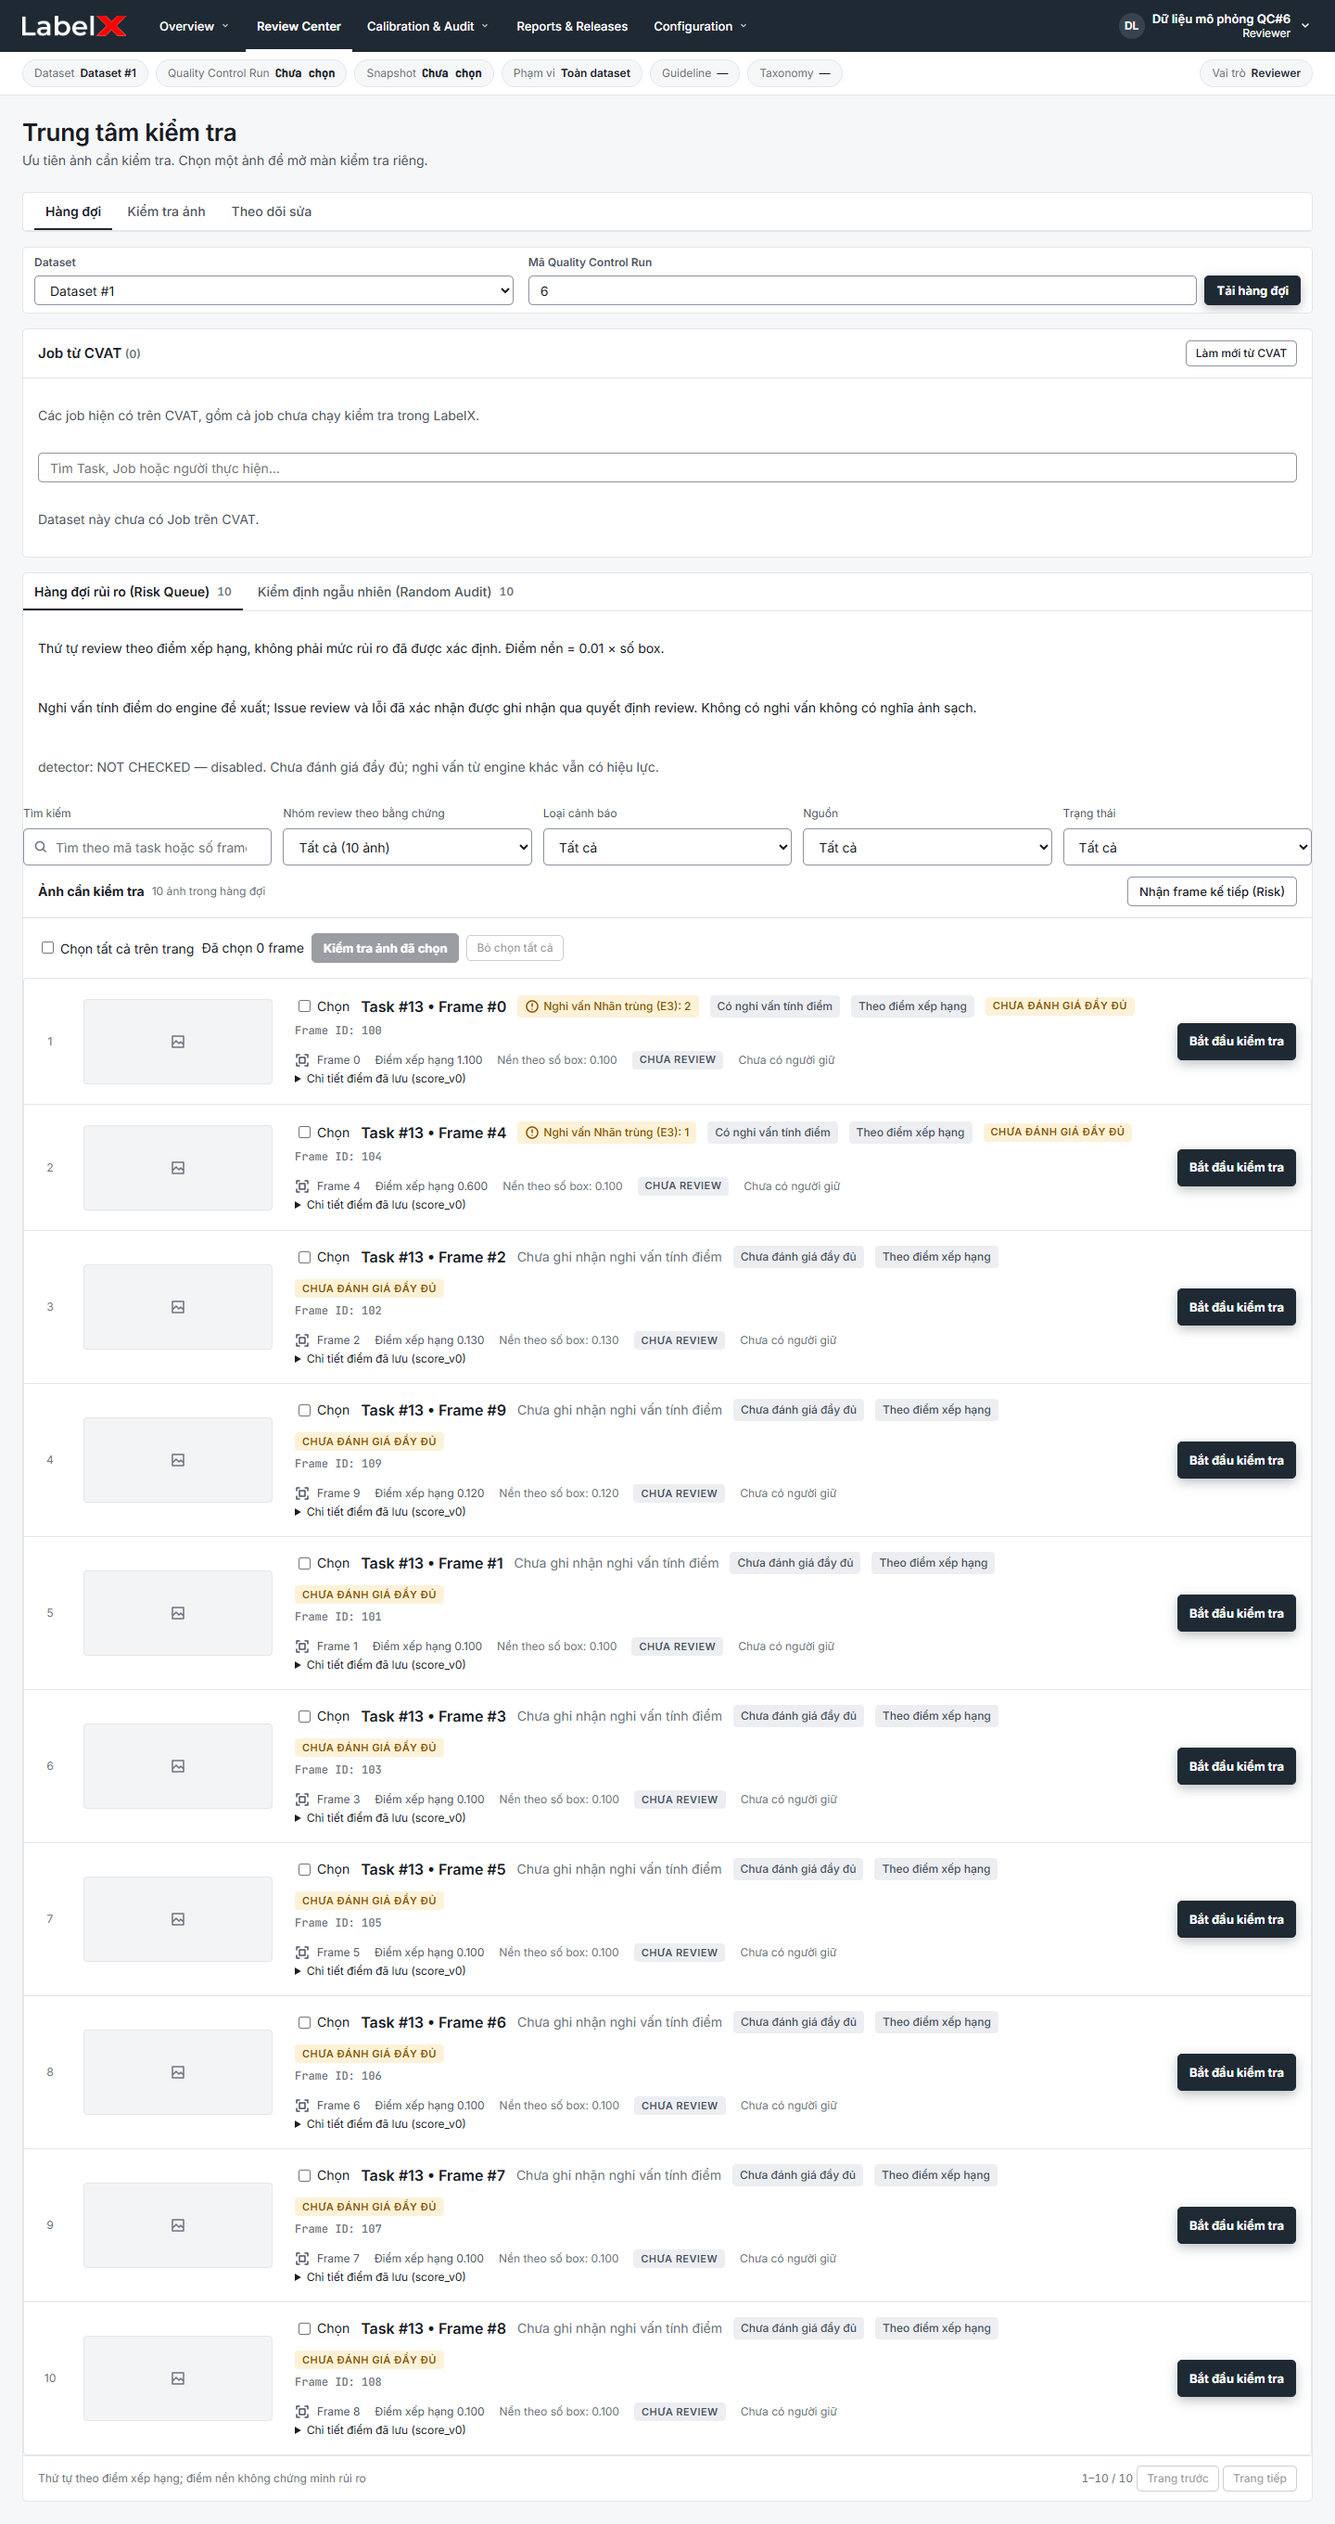
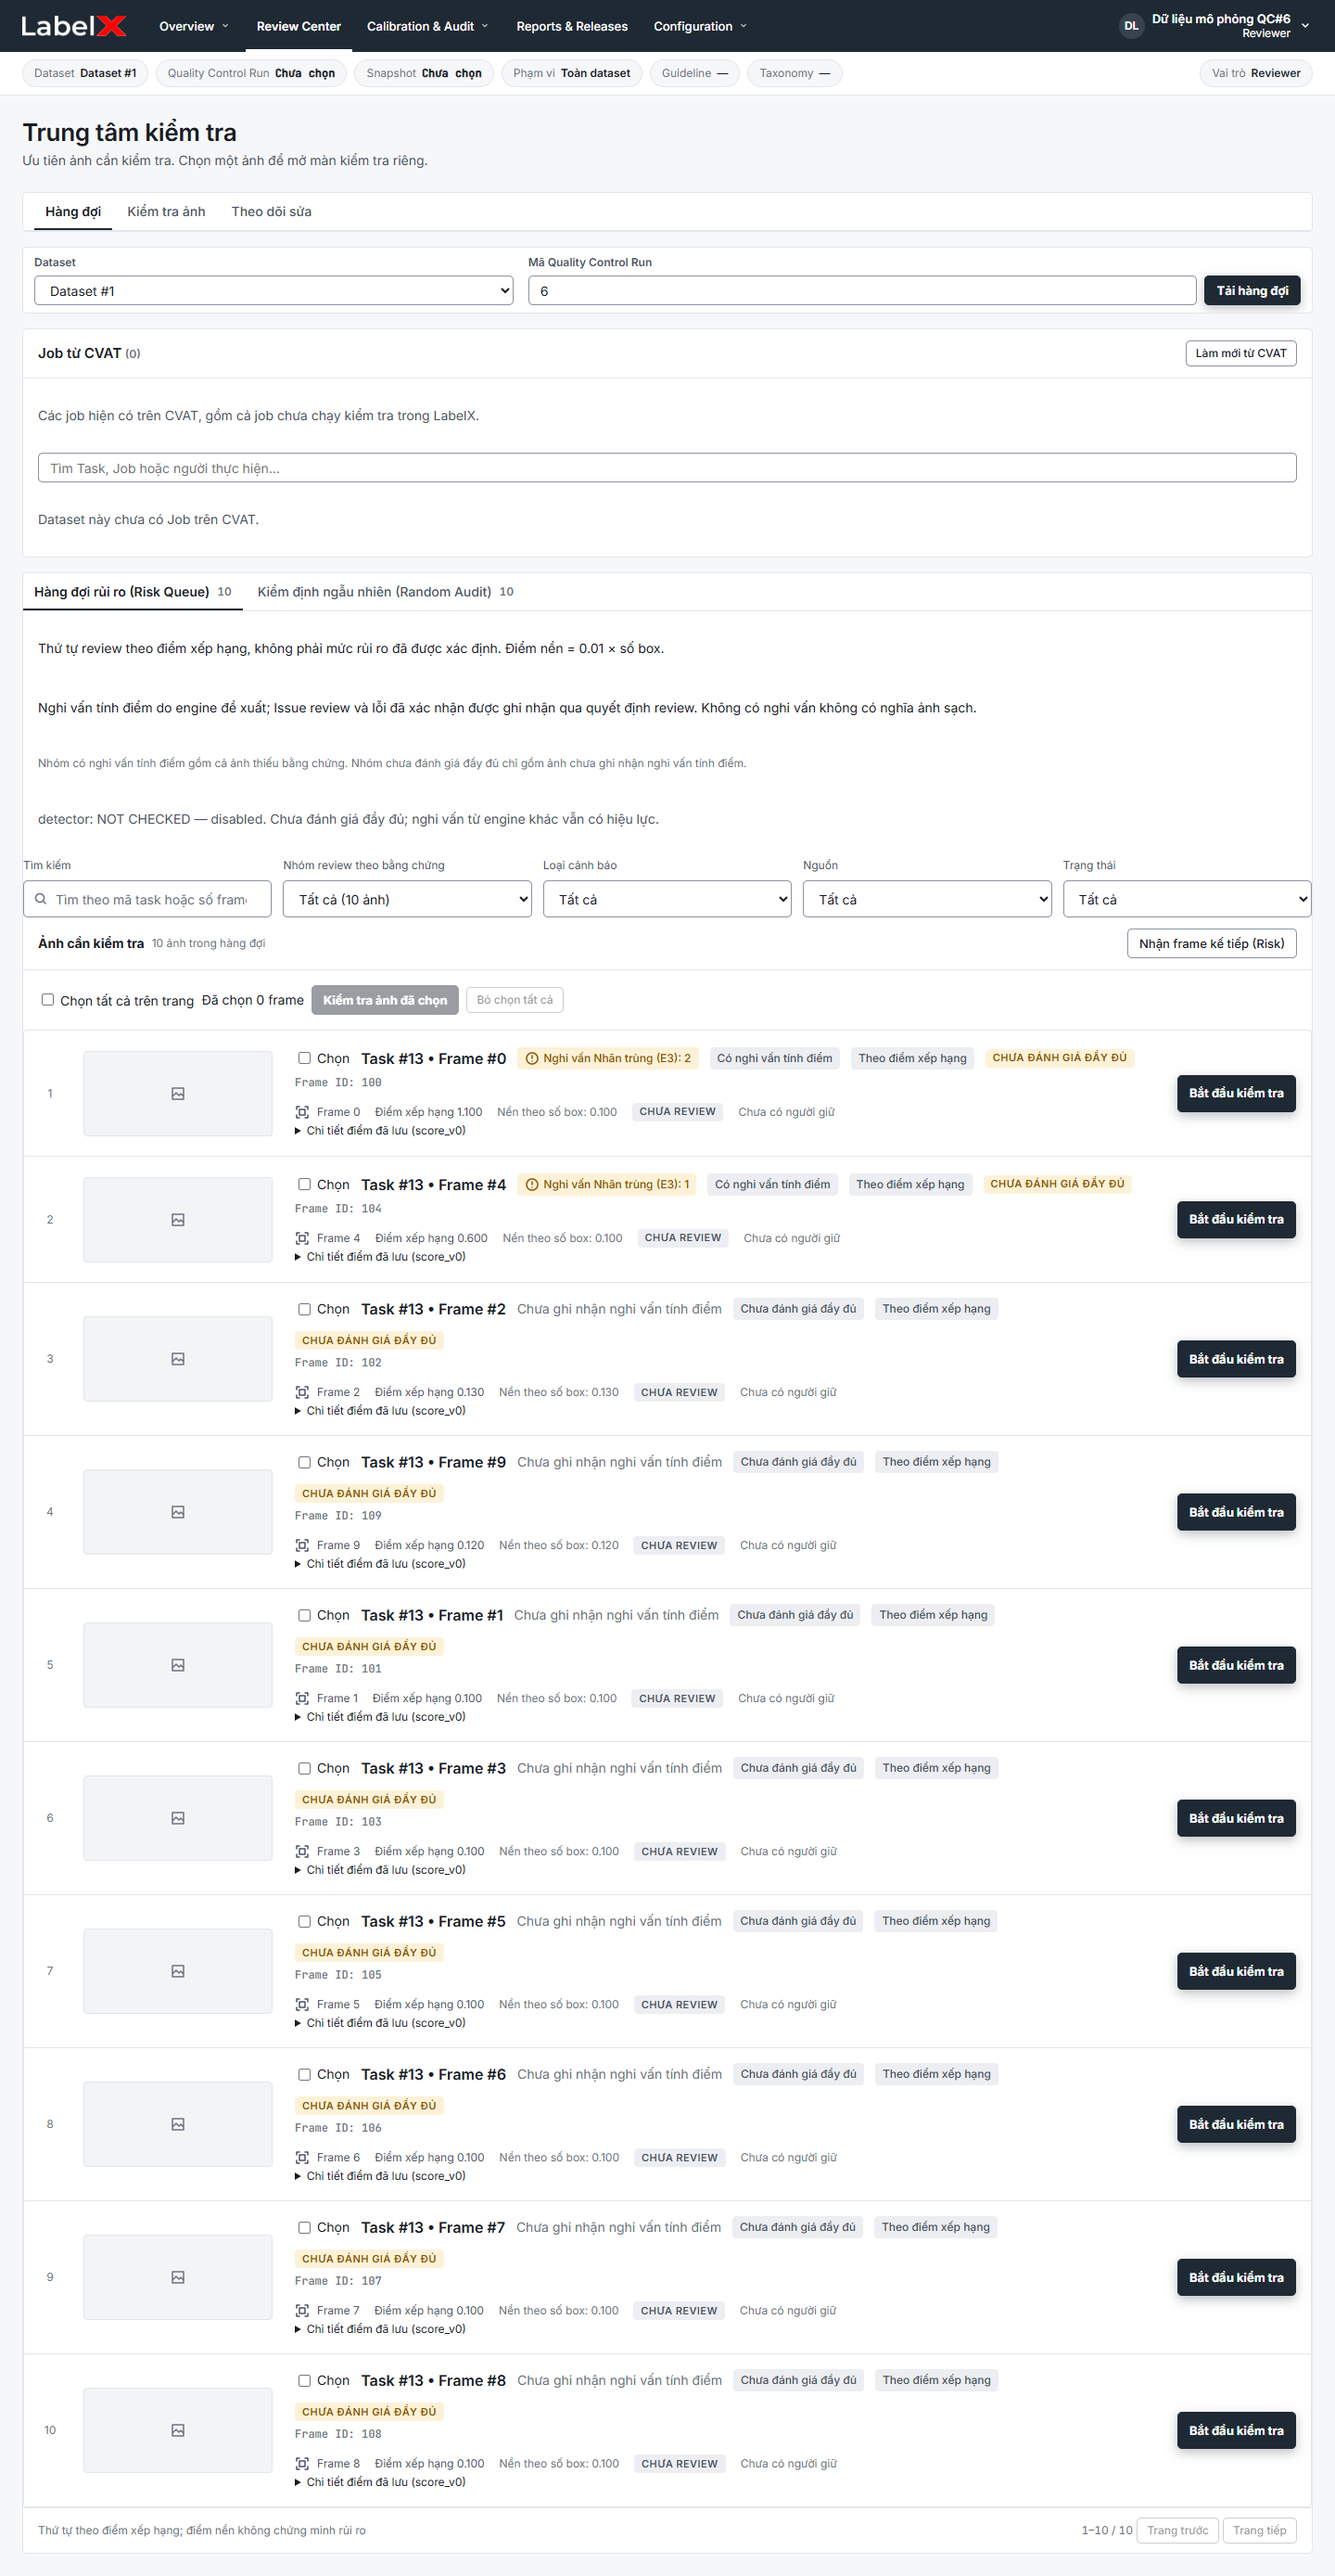
docs(ranking): record verified checks and review group semantics

diff --git a/.agent/reports/implementation/QC6-RANKING-EVIDENCE-@vietanhhhhhh2003.html b/.agent/reports/implementation/QC6-RANKING-EVIDENCE-@vietanhhhhhh2003.html
@@ -54,7 +54,7 @@ ul.dir{columns:2;font-size:14px}
 <li><strong>Title</strong>: <code>Ranking evidence presentation v1</code></li>
 <li><strong>Owner</strong>: <code>@Vietanhhhhhh2003</code></li>
 <li><strong>Executor</strong>: <code>Codex</code></li>
-<li><strong>Status</strong>: <code>draft</code></li>
+<li><strong>Status</strong>: <code>complete</code></li>
 <li><strong>Task ID</strong>: <code>QC6-RANKING-EVIDENCE</code> — người dùng giao trực tiếp; liên quan #394, không đóng issue MVP</li>
 <li><strong>Epic ID</strong>: <code>Không gán epic mới</code></li>
 <li><strong>Report Date</strong>: <code>2026-10-18</code></li>
@@ -62,11 +62,11 @@ ul.dir{columns:2;font-size:14px}
 <h2 id="scope">Scope</h2>
 <ul><li><strong>Implemented</strong>: <code>Nhóm review theo bằng chứng, API filter/counts, diễn giải score và regression.</code></li>
 <li><strong>Not Implemented</strong>: <code>Canvas/hiệu ứng Issue Review, thay công thức score_v0, migration ranking, deploy, merge.</code></li></ul>
-<p>Base: develop <code>f669fb8f</code>. Checkout riêng vì checkout ban đầu có thay đổi chưa commit và ref remote hỏng. Không đụng các thay đổi đó.</p>
+<p>Base lúc bắt đầu: develop <code>f669fb8f</code>; nhánh đã rebase lên develop <code>125be0c1</code> (các file trong scope không đổi giữa hai baseline). Checkout riêng vì checkout ban đầu có thay đổi chưa commit và ref remote hỏng. Không đụng các thay đổi đó.</p>
 <h2 id="changes-made">Changes Made</h2>
 <table><thead><tr><th>File or Artifact</th><th>Change Summary</th><th>Task ID</th></tr></thead><tbody>
 <tr><td>ranking/score_v0.py</td><td>Chỉ bổ sung docstring; giữ nguyên 0.01 × số box, rank, score_version và hash.</td><td>QC6-RANKING-EVIDENCE</td></tr>
-<tr><td>runs/ranking_presentation.py; serializers.py; views.py</td><td>Ba nhóm: suspected (có nghi vấn E1/E2/E3 tính điểm), unassessed (không có nghi vấn tính điểm và thiếu bằng chứng), no_suspicions (không ghi nhận nghi vấn tính điểm khi engine đầy đủ). Không phân hạng rủi ro bằng ngưỡng. SQL CASE xử lý cả JSON key vắng; facets trước priority/cursor, sau các bộ lọc còn lại.</td><td>QC6-RANKING-EVIDENCE</td></tr>
+<tr><td>runs/ranking_presentation.py; serializers.py; views.py</td><td>Ba nhóm: suspected (có nghi vấn E1/E2/E3 tính điểm), unassessed (không có nghi vấn tính điểm và thiếu bằng chứng), no_suspicions (không ghi nhận nghi vấn tính điểm khi engine đầy đủ). Không phân hạng rủi ro bằng ngưỡng. SQL CASE xử lý cả JSON key vắng; kiểm kiểu jsonb_typeof đồng bộ Python để JSON cũ sai kiểu không gây 500 hay đếm thành nghi vấn. Dữ liệu không đọc được làm cờ thiếu bằng chứng bật; E3 số dương hợp lệ vẫn giữ; facets trước priority/cursor, sau các bộ lọc còn lại.</td><td>QC6-RANKING-EVIDENCE</td></tr>
 <tr><td>ReviewQueues.tsx</td><td>Bỏ khẳng định rủi ro từ source/rank; giải thích điểm nền; đổi 0 issue; phân biệt nghi vấn, Issue review, lỗi xác nhận. Hiện detector NOT CHECKED — disabled và vẫn giữ E3.</td><td>QC6-RANKING-EVIDENCE</td></tr>
 <tr><td>openapi.yaml; contract.d.ts</td><td>Contract nhóm ưu tiên đổi có chủ đích sang enum suspected/unassessed/no_suspicions; frontend và backend phải phát hành cùng nhau. missing_evidence là trạng thái đọc bổ sung kết quả engine, không ghi đè cờ/explanation đã lưu. Presentation v1 độc lập score_v0.</td><td>QC6-RANKING-EVIDENCE</td></tr>
 <tr><td>tests/runs/test_ranking.py; tests/test_score_v0.py; ReviewQueues.test.tsx</td><td>Toàn tập không candidate, baseline 0.13/0.12, E3+detector disabled, bằng chứng đầy đủ, filter/facet/cursor và không ghi lại ranking.</td><td>QC6-RANKING-EVIDENCE</td></tr>
@@ -75,16 +75,16 @@ ul.dir{columns:2;font-size:14px}
 <h2 id="related-files">Related Files</h2>
 <ul><li><strong>Task Records</strong>: yêu cầu người dùng QC#6; <a href="https://github.com/toilatrung/label-x/issues/394">#394</a> chỉ liên quan, không dùng PR này làm bằng chứng hoàn tất MVP.</li>
 <li><strong>Review Request</strong>: @toilatrung hoặc @DucHa180104 theo CR-102; chưa có phê duyệt độc lập.</li>
-<li><strong>Commits</strong>: xem lịch sử nhánh fix/ranking-evidence-priority.</li></ul>
+<li><strong>Commits</strong>: <a href="../../intelligence/git-nexus/task-commit-map-@vietanhhhhhh2003.html">Git Nexus mapping</a>; f6e91cda, ee80b5bc, nhánh fix/ranking-evidence-priority.</li></ul>
 <h2 id="command-evidence">Command Evidence</h2>
 <table><thead><tr><th>Command</th><th>Result</th><th>Evidence</th></tr></thead><tbody>
 <tr><td>pytest tests/test_contract.py</td><td>passed</td><td>24 passed</td></tr>
-<tr><td>pytest tests/runs/test_ranking.py tests/test_score_v0.py tests/week5/test_export_ranking.py</td><td>passed</td><td>31 passed; PostgreSQL 17 riêng trong WSL; lần đầu local Windows bị lỗi kết nối do WSL dừng, đã chạy lại cùng phiên.</td></tr>
+<tr><td>pytest tests/runs/test_ranking.py tests/test_score_v0.py tests/week5/test_export_ranking.py</td><td>passed</td><td>58 passed khi mở rộng thêm tests/review/test_queue_lease.py và 6 ca JSON cũ; PostgreSQL 17 riêng trong WSL; lần đầu local Windows bị lỗi kết nối do WSL dừng, đã chạy lại cùng phiên.</td></tr>
 <tr><td>vitest ReviewQueues.test.tsx</td><td>passed</td><td>46 passed</td></tr>
 <tr><td>ruff check / format --check; mypy</td><td>passed</td><td>408 files formatted; 211 source files typechecked.</td></tr>
 <tr><td>npm run lint; npm run typecheck</td><td>passed</td><td>ESLint, Next typegen và tsc.</td></tr>
 <tr><td>validate-framework.py</td><td>passed</td><td>FRAMEWORK_VALIDATION_PASS; chạy lại sau khi thêm report.</td></tr>
-<tr><td>Toàn bộ pytest / vitest và detector checks</td><td>pending</td><td>Đang thu kết quả; sẽ cập nhật trước commit.</td></tr>
+<tr><td>Toàn bộ pytest / vitest và detector checks</td><td>passed</td><td>CI <a href="https://github.com/toilatrung/label-x/actions/runs/39120524055">39120524055</a>, source ee80b5bc: backend 1730 passed, 5 skipped, 3 subtests passed; S3 integration 1 passed; frontend 611 passed (57 files), build/lint/typecheck passed; detector/framework/bootstrap passed. 5 skips của full suite không được coi là bằng chứng hoàn tất các integration case tương ứng; targeted regression 58 passed không skip. Full local lần đầu dừng sau 1100 passed, 2 failed, 3 skipped: lỗi legacy JSON đã sửa; lỗi Redis local khắc phục bằng Redis riêng. Dừng lượt full local thứ hai sau khi CI xác nhận full suite để không lặp kiểm tra; không ghi lượt bị dừng là pass.</td></tr>
 </tbody></table>
 <h2 id="verification-evidence">Verification Evidence</h2>
 <table><thead><tr><th>Check</th><th>Result</th><th>Evidence</th></tr></thead><tbody>
@@ -101,7 +101,7 @@ ul.dir{columns:2;font-size:14px}
 <li><strong>Approved By</strong>: <code>Phạm vi do người dùng yêu cầu trực tiếp; phê duyệt PR còn chờ.</code></li>
 <li><strong>Known Limitations</strong>: <code>Enum priority thay đổi; không tương thích client cũ dùng high/medium/low. Không đánh đồng checked hay no_suspicions với ảnh sạch; engine optional không required không là bằng chứng bắt buộc. Quyết định review vẫn là nguồn xác nhận lỗi.</code></li></ul>
 <h2 id="completion-criteria">Completion Criteria</h2>
-<p>Implementation và regression được bàn giao qua PR riêng vào develop. Chưa tuyên bố DONE/MVP/production, chưa tự review hay phê duyệt.</p>
+<p>Implementation và regression hoàn tất, bàn giao qua <a href="https://github.com/toilatrung/label-x/pull/450">PR #450</a> vào develop. Source sau ee80b5bc chỉ bổ sung diễn giải nhóm review, comment và báo cáo/ảnh; ReviewQueues 46 passed, browser 1440/390, lint/typecheck chạy lại đạt. Phê duyệt độc lập vẫn chờ Trịnh Quang Trung hoặc Nguyễn Đức Hà. Chưa tuyên bố DONE/MVP/production, chưa tự review hay phê duyệt.</p>
 <h2 id="forbidden-actions">Forbidden Actions</h2>
 <ul>
 <li>Do not report unperformed work as implemented.</li>

diff --git a/.agent/intelligence/git-nexus/task-commit-map-@vietanhhhhhh2003.html b/.agent/intelligence/git-nexus/task-commit-map-@vietanhhhhhh2003.html
@@ -1,0 +1,18 @@
+<!doctype html>
+<html lang="vi"><head><meta charset="utf-8"><title>QC6 task commit map — Việt Anh</title>
+<meta name="labelx:id" content="task-commit-map-qc6-vietanhhhhhh2003">
+<meta name="labelx:title" content="QC6 task commit map — Việt Anh">
+<meta name="labelx:type" content="intelligence">
+<meta name="labelx:domain" content="development">
+<meta name="labelx:module" content="ranking">
+<meta name="labelx:tags" content="[ranking, commits, evidence]">
+<meta name="labelx:priority" content="2"></head><body>
+<h1>Task Commit Map</h1>
+<p>Chỉ phần bổ sung của @vietanhhhhhh2003, base develop <code>125be0c1</code>. Task QC6-RANKING-EVIDENCE do người dùng giao trực tiếp ngày 18/10/2026. Các commit dưới đây ở nhánh PR #450, chưa merge/squash vào develop.</p>
+<h2 id="develop-commits">Implementation Commits on develop</h2>
+<p>Chưa có commit tích hợp của task này; chờ review PR.</p>
+<h2 id="pending-commits">Pending implementation commits</h2>
+<table><thead><tr><th>Task ID</th><th>Implementation Commit</th><th>Date</th><th>Author</th><th>Summary</th><th>Evidence</th></tr></thead><tbody>
+<tr><td>QC6-RANKING-EVIDENCE</td><td><a href="https://github.com/toilatrung/label-x/commit/f6e91cda">f6e91cda</a></td><td>2026-10-18</td><td>@Vietanhhhhhh2003 / Codex</td><td>Tách thứ tự review khỏi nhóm bằng chứng; giữ score_v0; regression và ảnh trước–sau.</td><td><a href="../../reports/implementation/QC6-RANKING-EVIDENCE-@vietanhhhhhh2003.html">Implementation</a>; <a href="https://github.com/toilatrung/label-x/pull/450">PR #450</a></td></tr>
+<tr><td>QC6-RANKING-EVIDENCE</td><td><a href="https://github.com/toilatrung/label-x/commit/ee80b5bc">ee80b5bc</a></td><td>2026-10-18</td><td>@Vietanhhhhhh2003 / Codex</td><td>Xử lý JSON cũ không đúng kiểu đồng bộ Python/SQL; thêm 6 ca regression.</td><td><a href="https://github.com/toilatrung/label-x/actions/runs/39120524055">CI: backend 1730 passed, frontend 611 passed</a></td></tr>
+</tbody></table></body></html>

diff --git a/src/frontend/src/components/review/ReviewQueues.tsx b/src/frontend/src/components/review/ReviewQueues.tsx
@@ -986,6 +986,7 @@ export function ReviewQueues({ onWorkspaceStateChange, resumeWorkspace = false, 
           <div className="lx-card__body lx-stack">
             <p>Thứ tự review theo điểm xếp hạng, không phải mức rủi ro đã được xác định. Điểm nền = 0.01 × số box.</p>
             <p>Nghi vấn tính điểm do engine đề xuất; Issue review và lỗi đã xác nhận được ghi nhận qua quyết định review. Không có nghi vấn không có nghĩa ảnh sạch.</p>
+            <p className="lx-hint">Nhóm có nghi vấn tính điểm gồm cả ảnh thiếu bằng chứng. Nhóm chưa đánh giá đầy đủ chỉ gồm ảnh chưa ghi nhận nghi vấn tính điểm.</p>
             {runQuery.data.engines.filter(engine => ['schema', 'geometry', 'duplicate', 'detector'].includes(engine.engine) && engine.status !== 'checked').map(engine => (
               <p key={engine.engine} className="lx-muted">{engine.engine}: {engine.status.toUpperCase().replaceAll('_', ' ')}{engine.reason ? ` — ${engine.reason}` : ''}. Chưa đánh giá đầy đủ; nghi vấn từ engine khác vẫn có hiệu lực.</p>
             ))}

diff --git a/src/backend/runs/ranking_presentation.py b/src/backend/runs/ranking_presentation.py
@@ -19,6 +19,8 @@ def _has_json_type(family: str | None, kind: str) -> Q:
 
 
 def _positive_count(family: str) -> Q:
+    # PostgreSQL jsonb orders unlike types: objects/bools can compare above 0.
+    # Check the JSON type before interpreting a legacy value as a count.
     return _has_json_type(family, "number") & Q(**{f"issue_counts__{family}__gt": 0})
 
 
